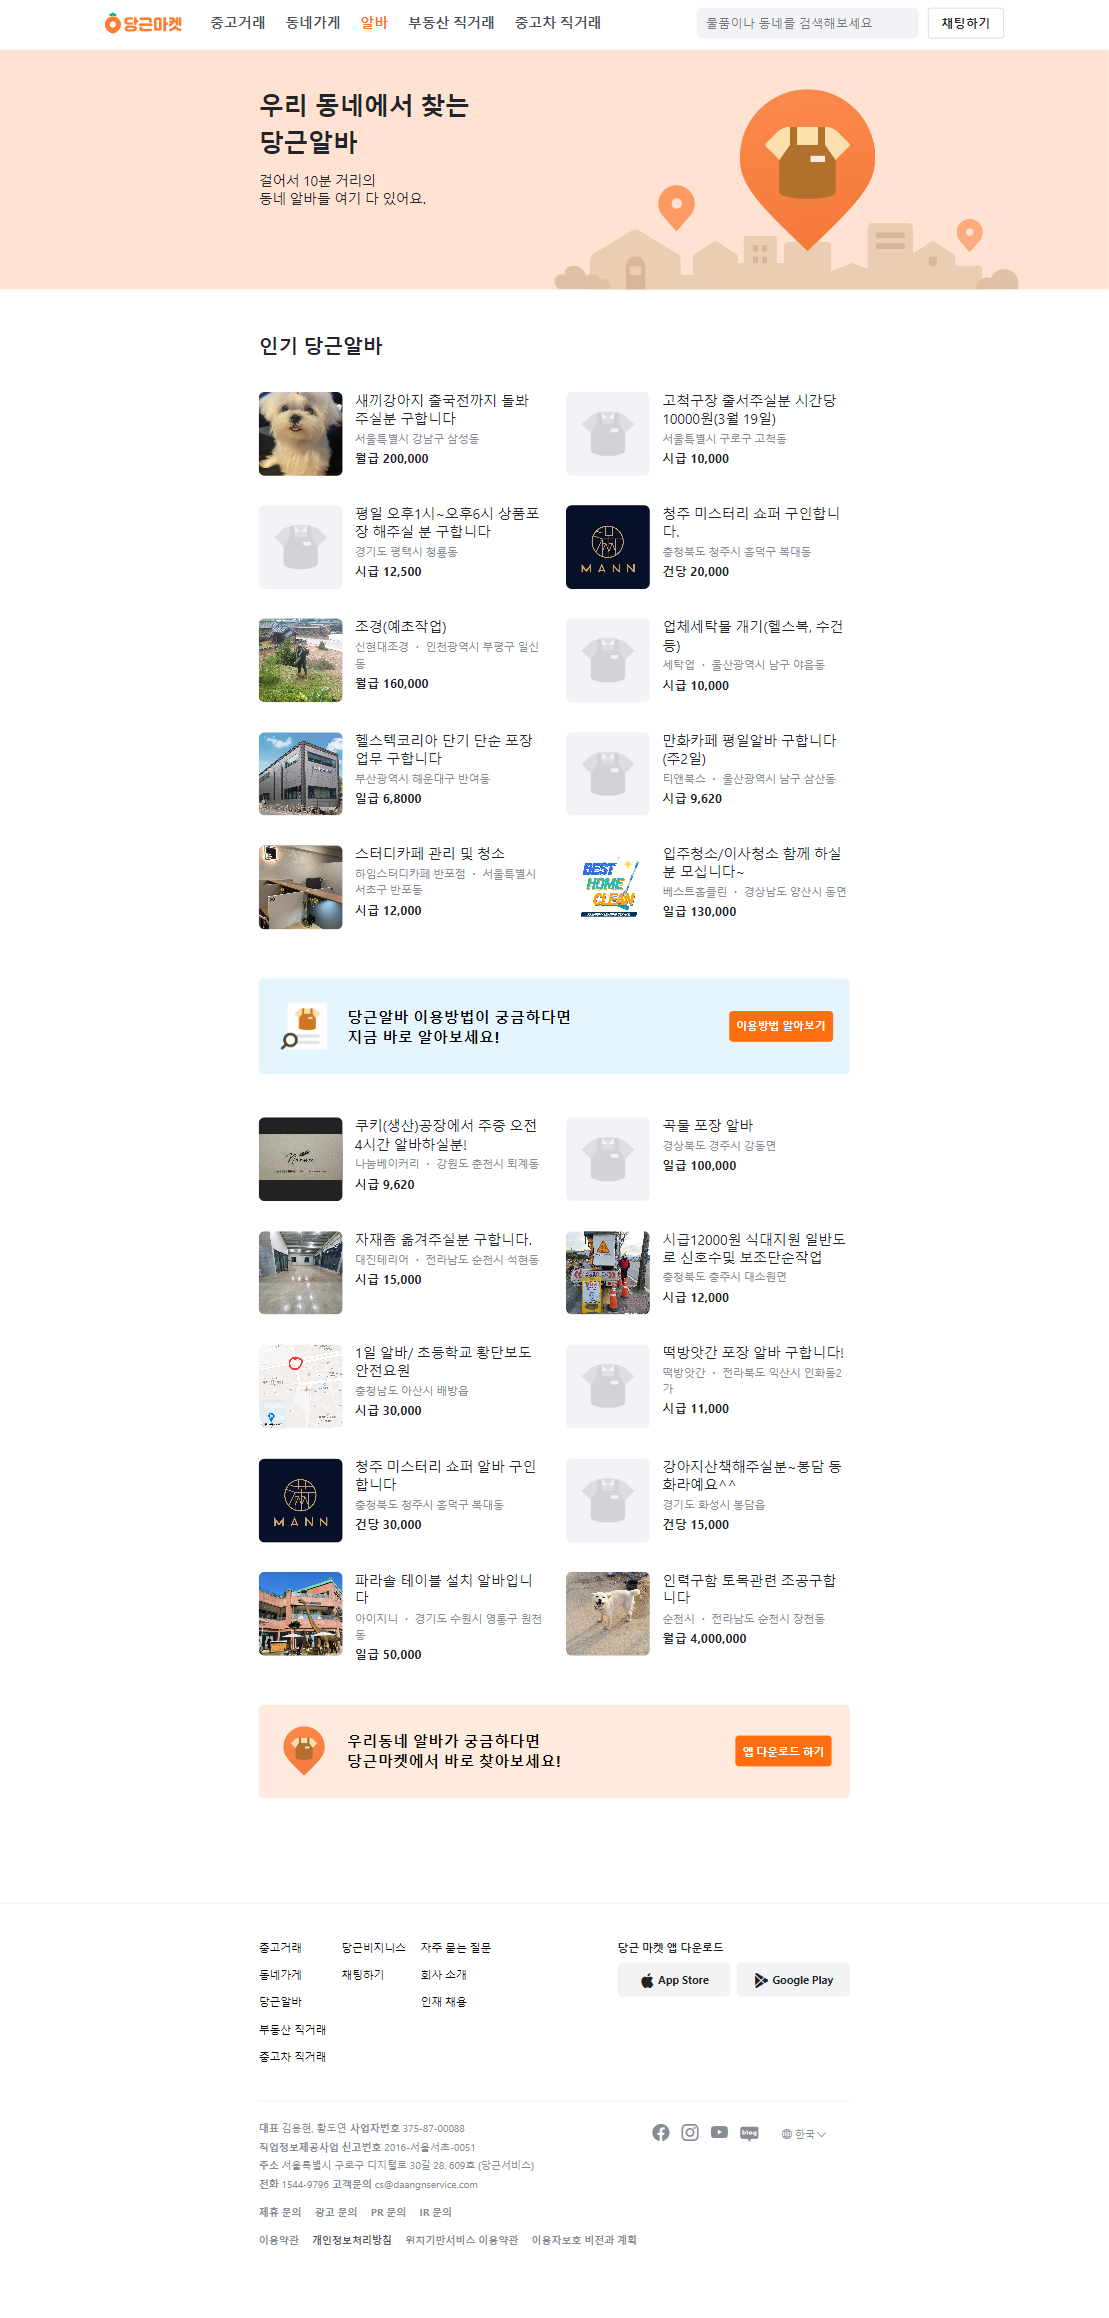
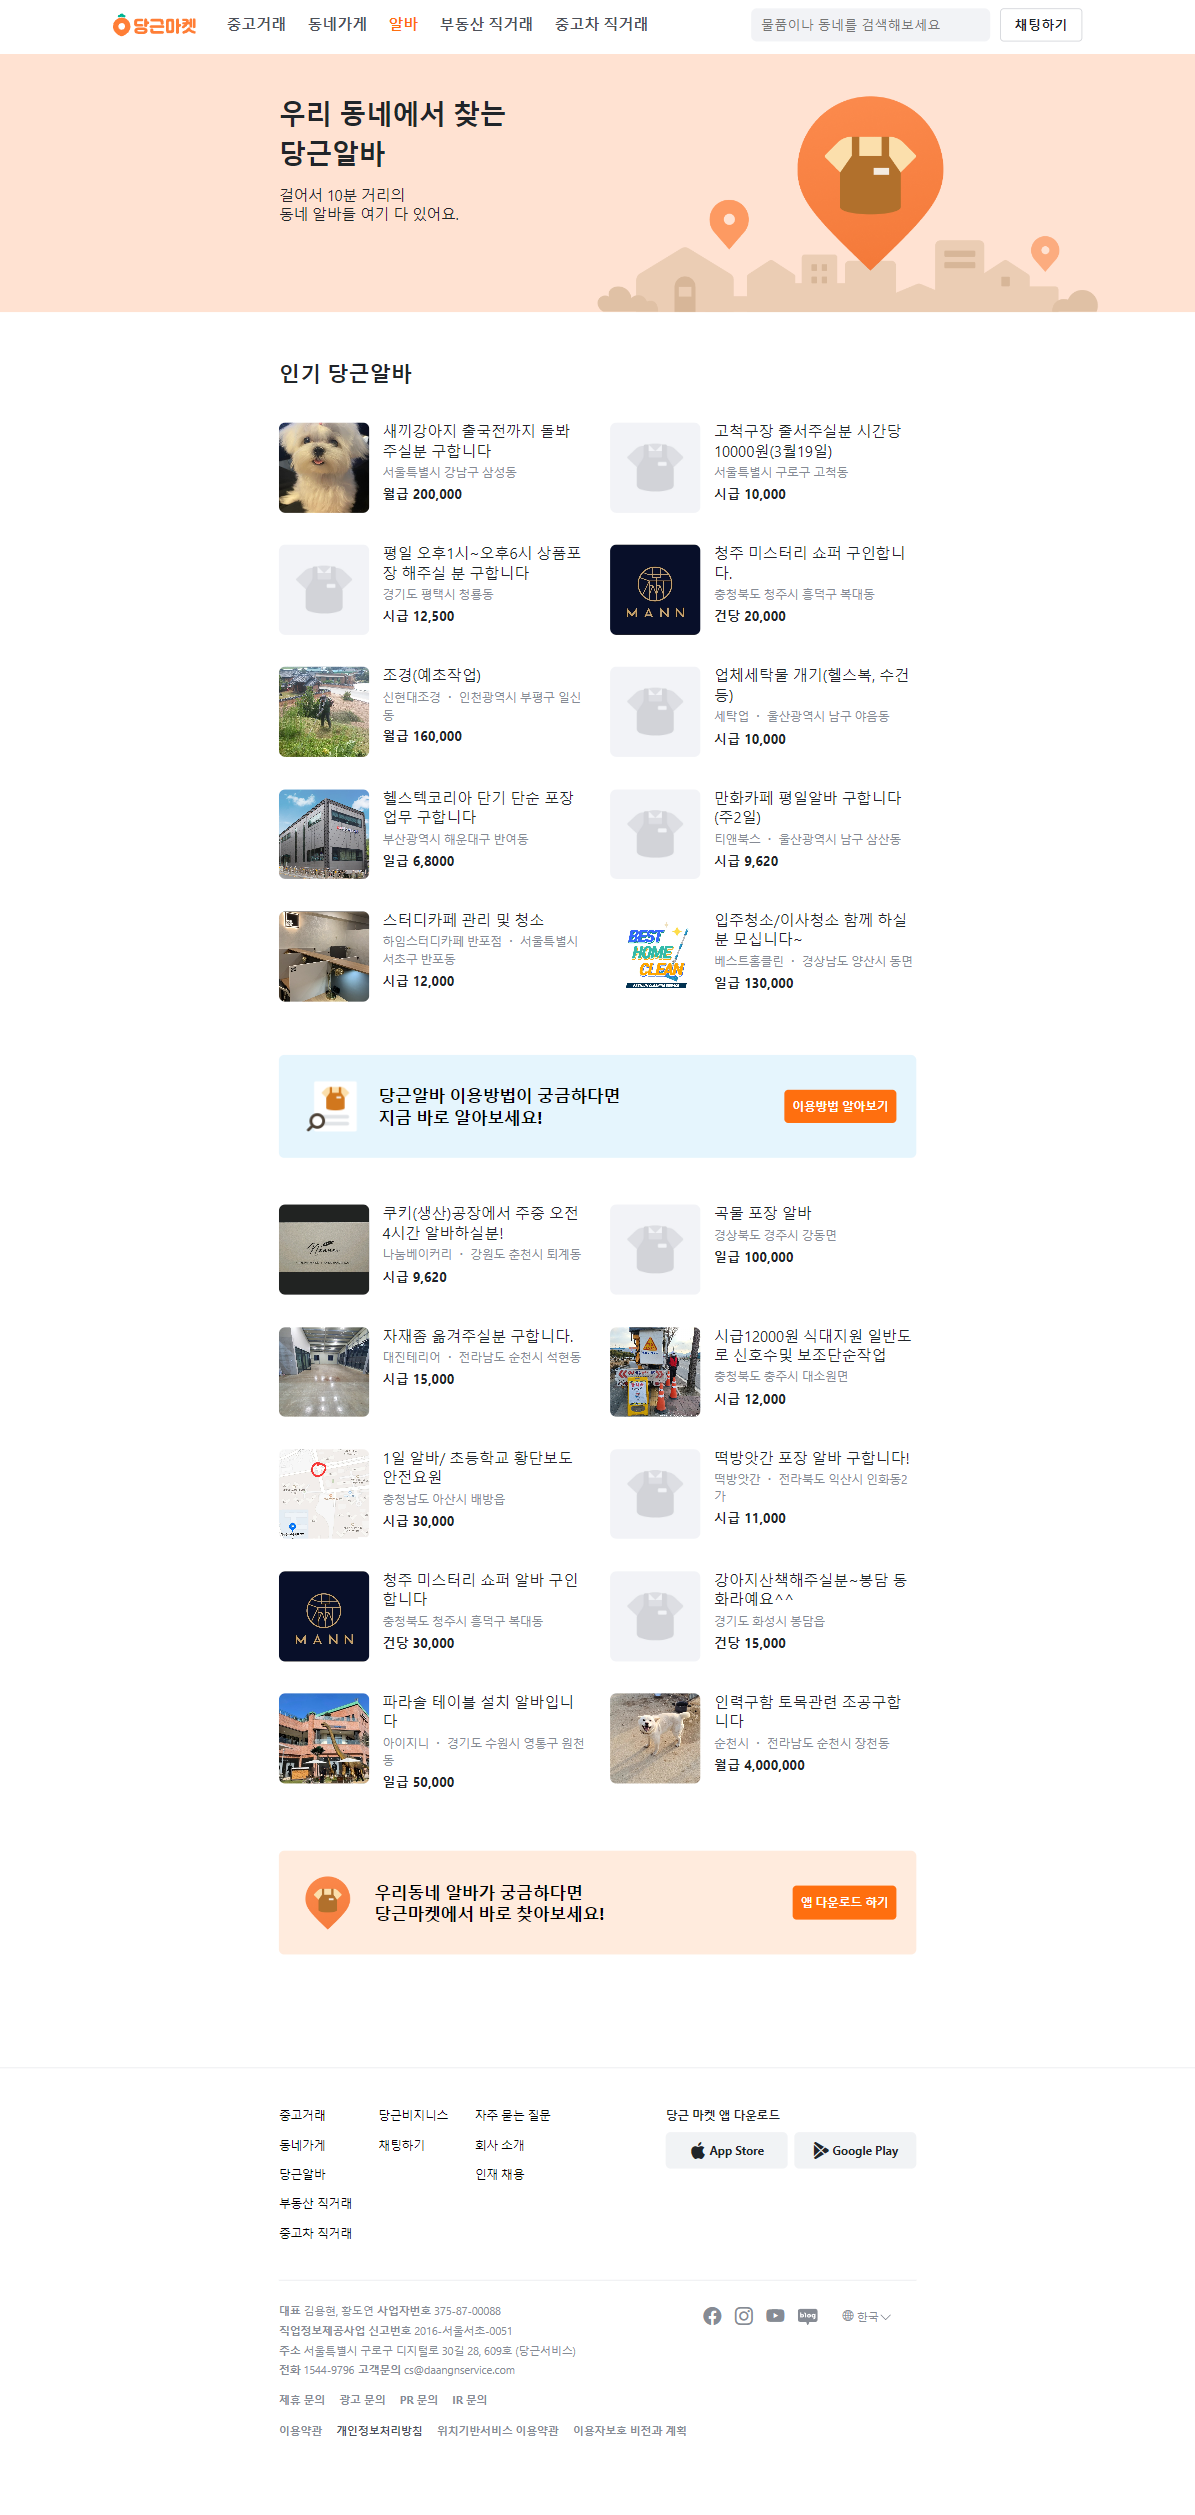
Add screenshot of jobs page

diff --git a/pages/jobs/README.md b/pages/jobs/README.md
@@ -4,4 +4,8 @@
 <hr>
 
 ### PC
-![jobs_pc](/img/jobs_pc.png)
+![jobs for pc](/img/jobs_pc.png)
+### tablet
+![jobs for tablet](/img/jobs_tablet.png)
+### PC
+![jobs for mobile](/img/jobs_mobile.png)
